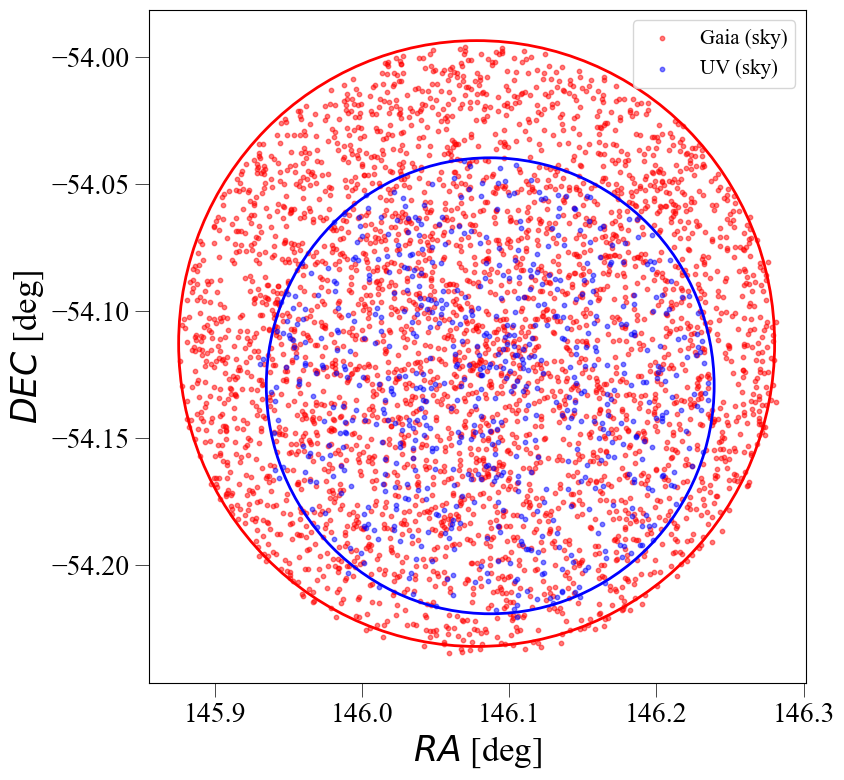
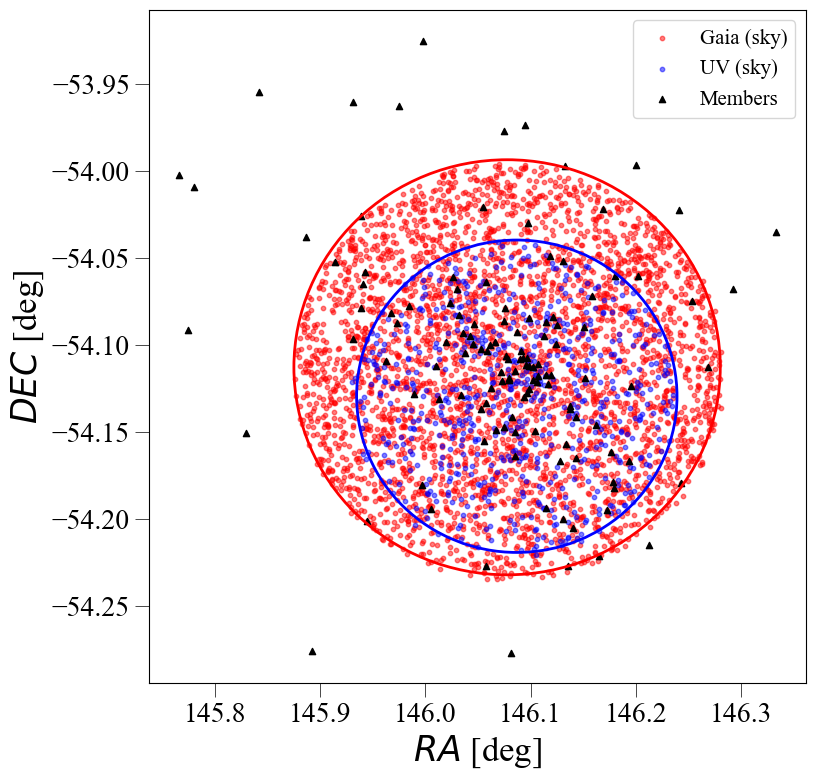
Plotting sky coordinates with cluster members given by cluster name from Hunt catalogue (unstable)

diff --git a/process_data.py b/process_data.py
@@ -11,11 +11,26 @@ import os
 plt.rc("font", size=10)
 plt.rcParams["font.family"] = "Times New Roman"
 
-def coords_reproject(cluster, coords, gaia_mag, plots=True):
+def coords_reproject(cluster, coords, gaia_mag, plots=True, members=False):
     # Importing gaia and uv data
     print(f"\nImporting data for {cluster}...\n")
     gaia = pd.read_csv(f'input/star_table_{cluster}.csv')
     uv = pd.read_csv(f'input/uv.csv')
+
+    if members:
+        # Importing members data from Hunt catalog 
+        print(f"\nImporting members data...")
+        members_m = pd.read_csv('../MS_members/members_m_final.csv')
+        members_p = pd.read_csv('../MS_members/members_p_final.csv')
+        print(f"Members data imported.\n")
+
+        members_comb = pd.concat([members_m, members_p], ignore_index=True)
+
+        members_comb_filtered = members_comb[members_comb['name'] == cluster]
+
+        if members_comb_filtered.empty:
+            print("Error: No members data found for the given cluster. Try to look for cluster name in Hunt catalogue. Continue without plotting members.")
+            members = False
 
     # Adding id column to gaia and uv data (from 1 to len(data))
     gaia['id'] = range(1, len(gaia) + 1)   
@@ -49,7 +64,7 @@ def coords_reproject(cluster, coords, gaia_mag, plots=True):
     # Plotting RA-DEC and X-Y coords
     if plots:
         print(f"\nPlotting RA-DEC and X-Y coords...")
-        plot_sky(gaia, uv)
+        plot_sky(gaia, uv, members_comb_filtered, members)
         plot_cart(gaia_cart, uv_cart)
         print(f"Plots saved to plots folder.\n")
 
@@ -228,7 +243,7 @@ def center(ra, dec):
     mean_dec = dec.mean()
     return [mean_ra, mean_dec]
 
-def plot_sky(gaia, uv):
+def plot_sky(gaia, uv, members_comb_filtered, members=False):
     fig, ax = plt.subplots(figsize=(8, 8))
 
     ax.set_xlabel(r"$RA$ [deg]")
@@ -241,6 +256,9 @@ def plot_sky(gaia, uv):
 
     ax.scatter(gaia['ra'], gaia['dec'], color='red', s=10, alpha=0.5, label='Gaia (sky)')
     ax.scatter(uv['ra'], uv['dec'], color='blue', s=10, alpha=0.5, label='UV (sky)')
+
+    if members:
+        ax.scatter(members_comb_filtered['ra'], members_comb_filtered['dec'], color='black', s=20, marker='^', label='Members')
 
     ax.add_patch(Ellipse((center(gaia['ra'], gaia['dec'])), 2*radius(gaia['ra'], gaia['dec'])[0], 2*radius(gaia['ra'], gaia['dec'])[1], edgecolor='red', fc='None', lw=2))
     ax.add_patch(Ellipse((center(uv['ra'], uv['dec'])), 2*radius(uv['ra'], uv['dec'])[0], 2*radius(uv['ra'], uv['dec'])[1], edgecolor='blue', fc='None', lw=2))

diff --git a/controller.py b/controller.py
@@ -41,7 +41,7 @@ def run(cluster, procedure, args):
 	os.chdir(obj_dir)
 	y = yaml.load(open(f"{cluster}.yaml"), Loader=yaml.FullLoader)
 
-	args = {"coords_reproject" : [y["cluster"], y["coords"], y["gaia_mag"], y["plots"]],
+	args = {"coords_reproject" : [y["cluster"], y["coords"], y["gaia_mag"], y["plots"], y["members"]],
 			"matching" : [y["cluster"], y["gaia_mag"], y["matchrad"], y["trirad"], y["nobj"], y["plots"]],	
 			"filtering" : [y["cluster"], y["plots"]],
 			"diagram" : [y["cluster"], y["colour1"], y["colour2"], y["adjust"], y["cmd"]]

diff --git a/README.md b/README.md
@@ -25,7 +25,10 @@ Pipeline's desined in Model–View–Controller architecture. Main parts of the 
 
    magnitude you will use for matching: "gaia_mag",
 
-   would you like to make plots: "plots" (True - make plots / False - don't make plots),
+   do you want to make plots?: "plots" (True - make plots / False - don't make plots),
+
+   do you want to plot members of a cluster in sky coordinates plot?: "members" (True - add members to the plot / False - don't add members to the plot)
+   Be careful, because members are filtered by given cluster name, which is also presented in members files from Hunt catalogue in column "name". But sometimes cluster name could be different from one in Hunt catalogue and script will give you error, but still will proseed and plot sky coordinates, just without members. 
 
    parameters for matching: "matchrad", "trirad", "nobj",
 
